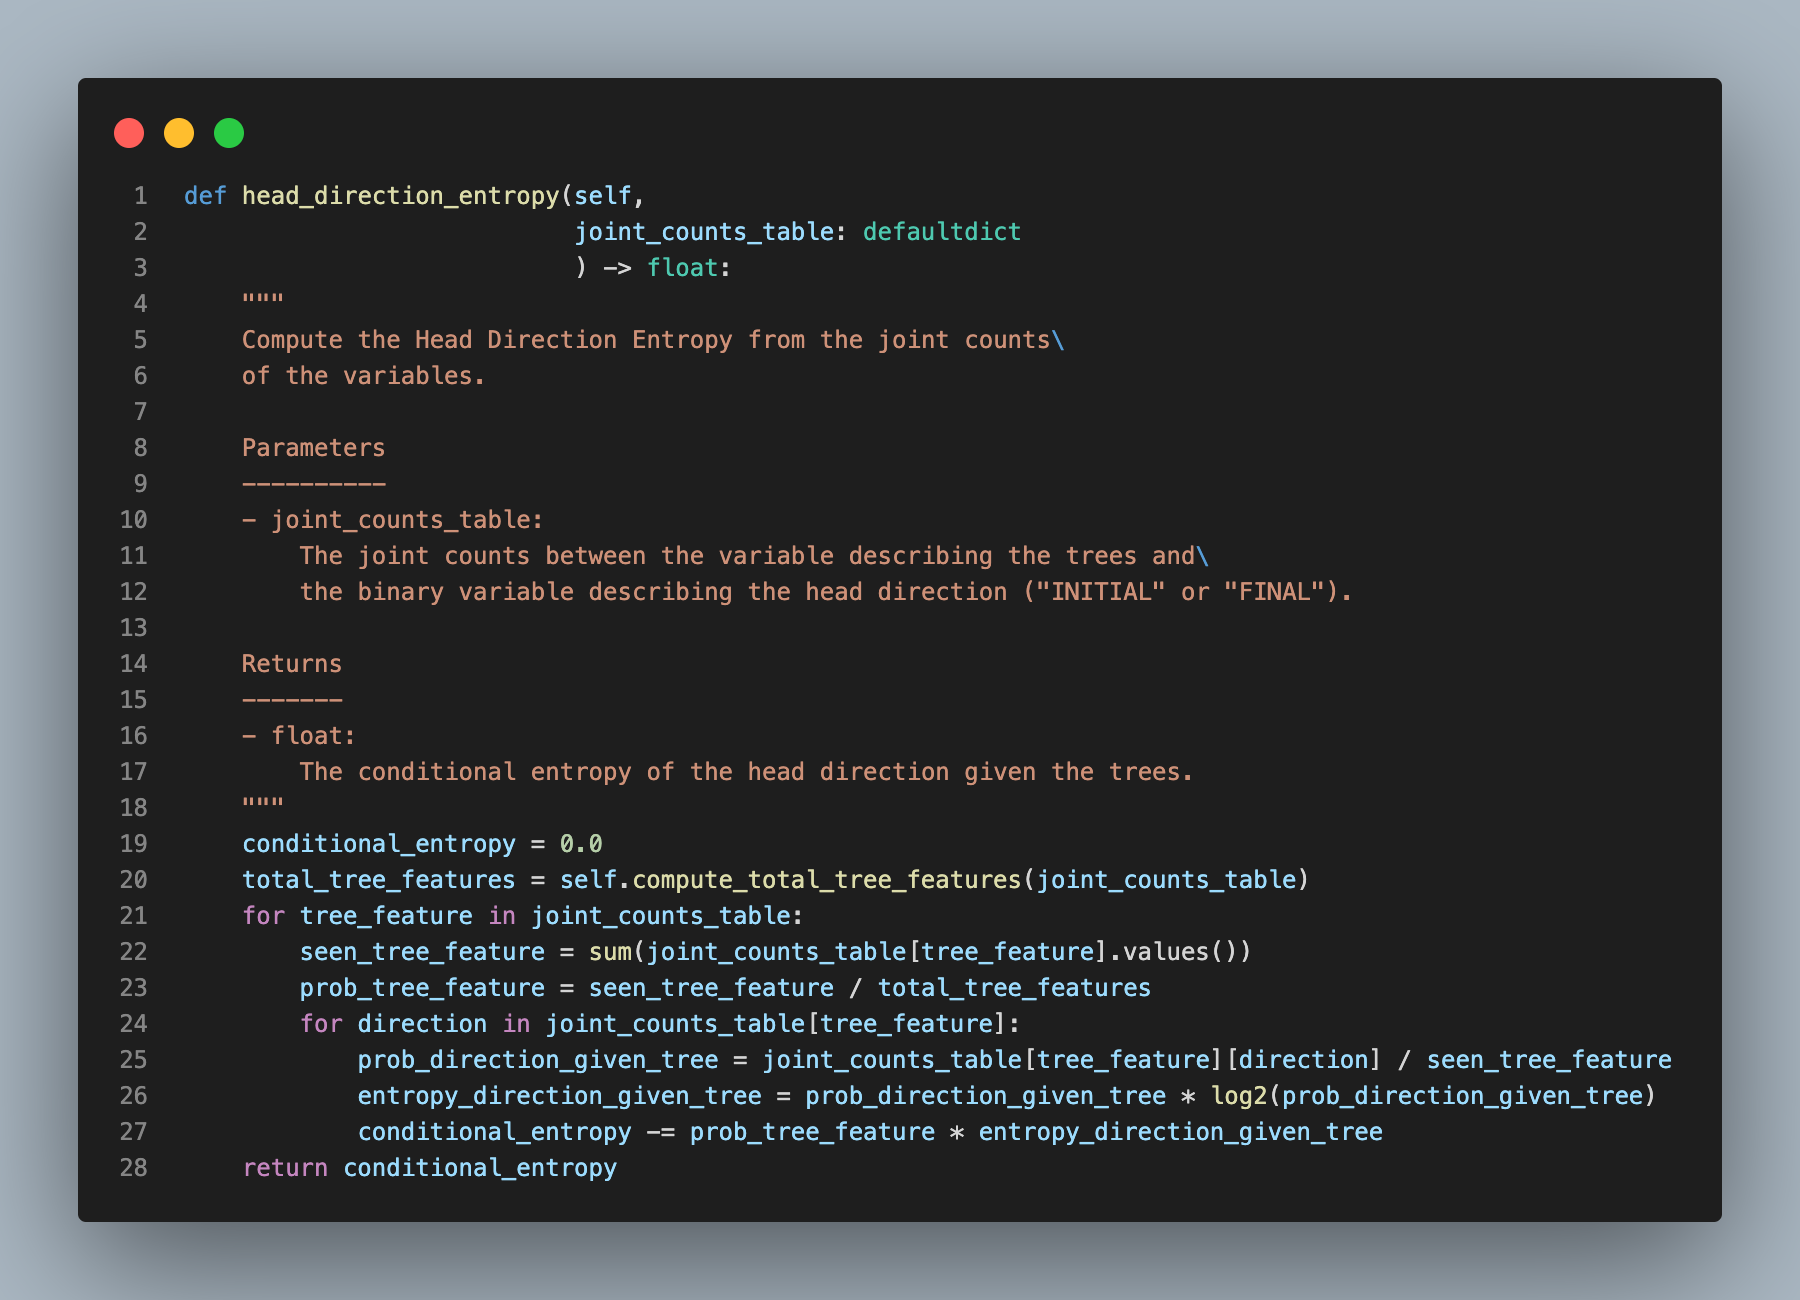
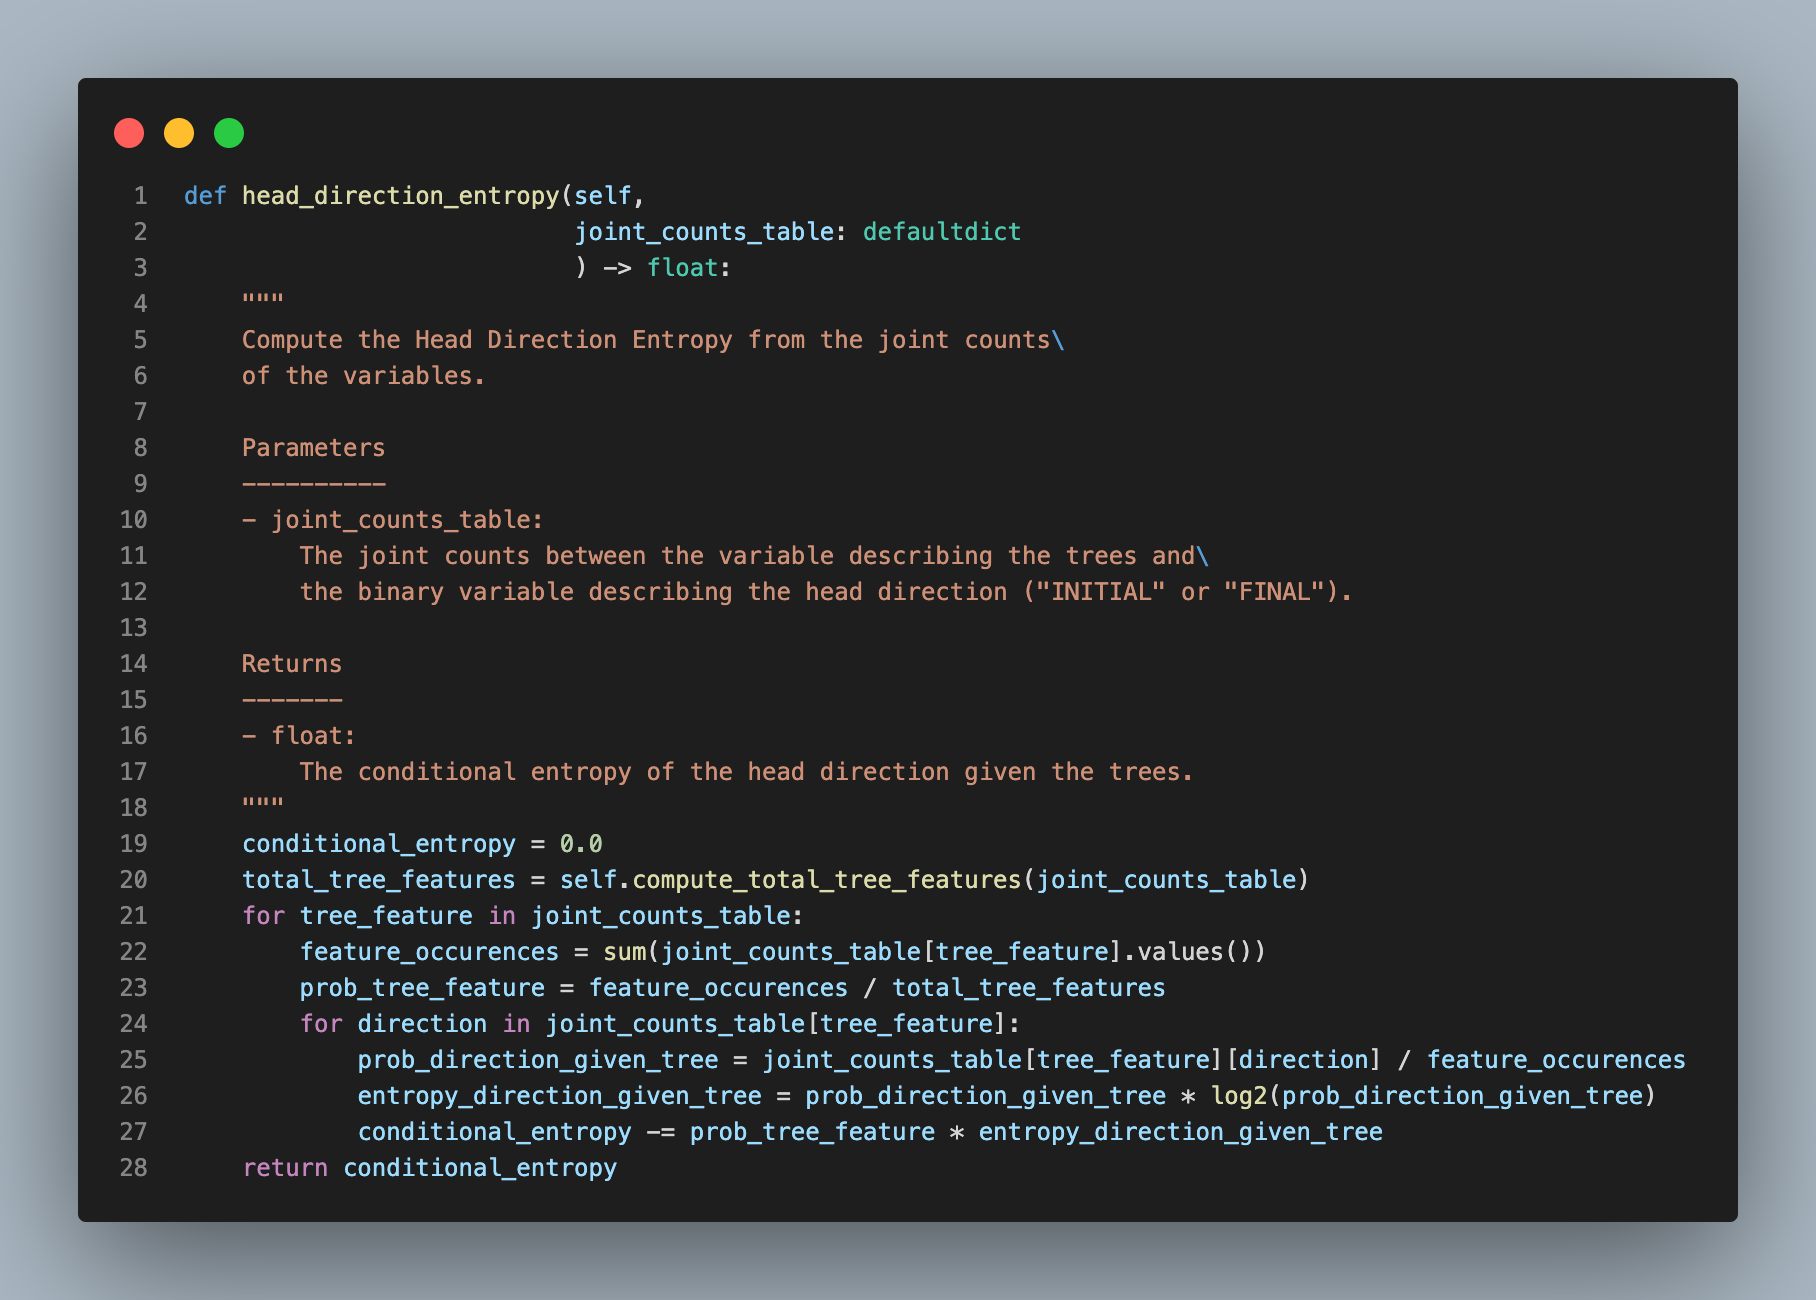
fixing some variable naming mistake

diff --git a/scripts/head_direction_entropy.py b/scripts/head_direction_entropy.py
@@ -128,10 +128,10 @@ class HeadDirectionEntropy:
         conditional_entropy = 0.0
         total_tree_features = self.compute_total_tree_features(joint_counts_table)
         for tree_feature in joint_counts_table:
-            seen_tree_feature = sum(joint_counts_table[tree_feature].values())
-            prob_tree_feature = seen_tree_feature / total_tree_features
+            feature_occurences = sum(joint_counts_table[tree_feature].values())
+            prob_tree_feature = feature_occurences / total_tree_features
             for direction in joint_counts_table[tree_feature]:
-                prob_direction_given_tree = joint_counts_table[tree_feature][direction] / seen_tree_feature
+                prob_direction_given_tree = joint_counts_table[tree_feature][direction] / feature_occurences
                 entropy_direction_given_tree = prob_direction_given_tree * log2(prob_direction_given_tree)
                 conditional_entropy -= prob_tree_feature * entropy_direction_given_tree
         return conditional_entropy
